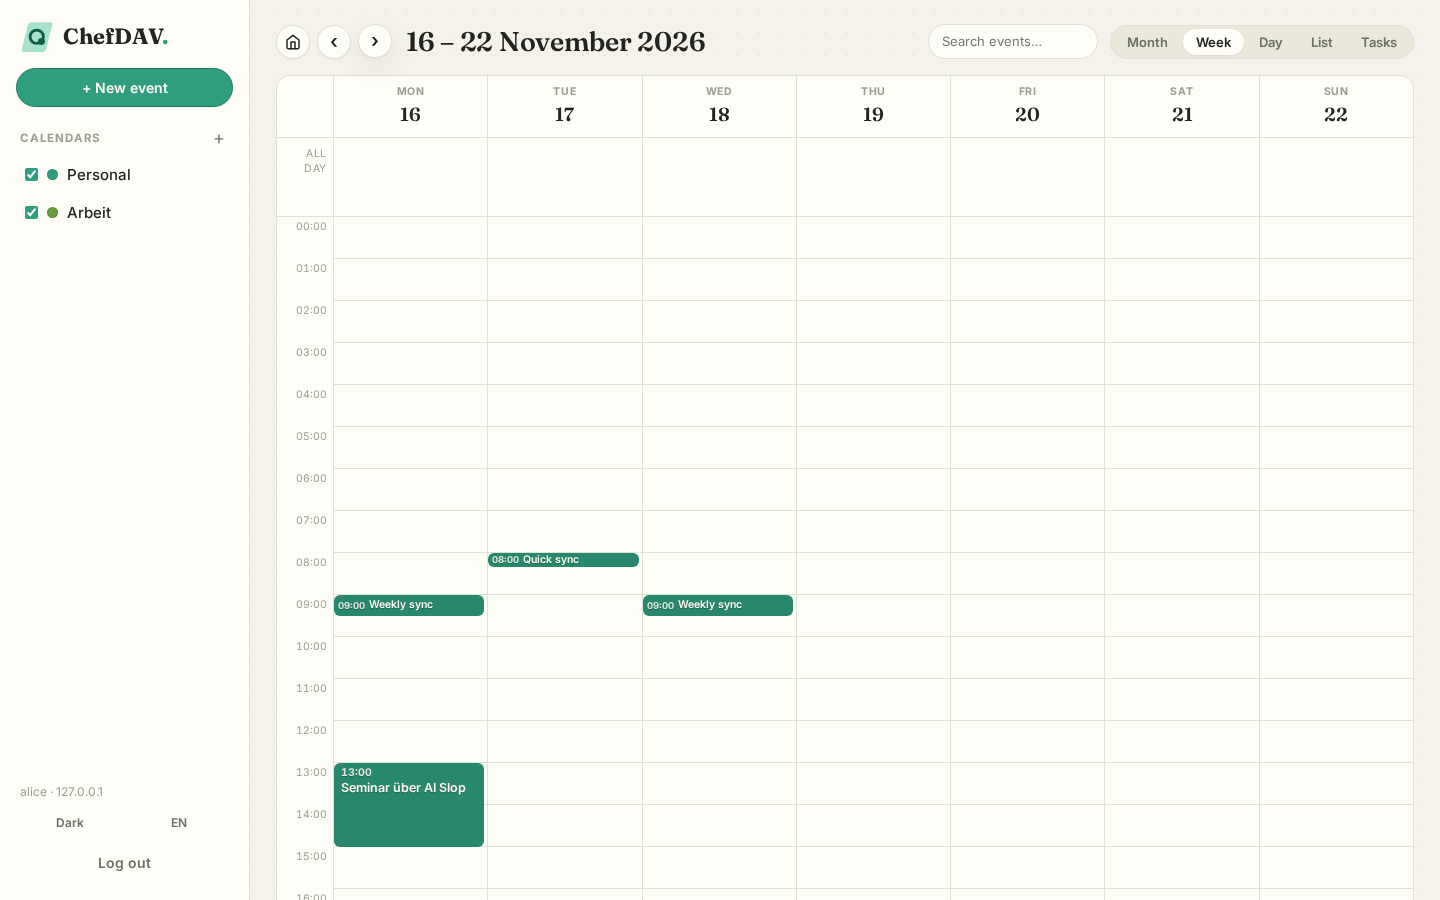
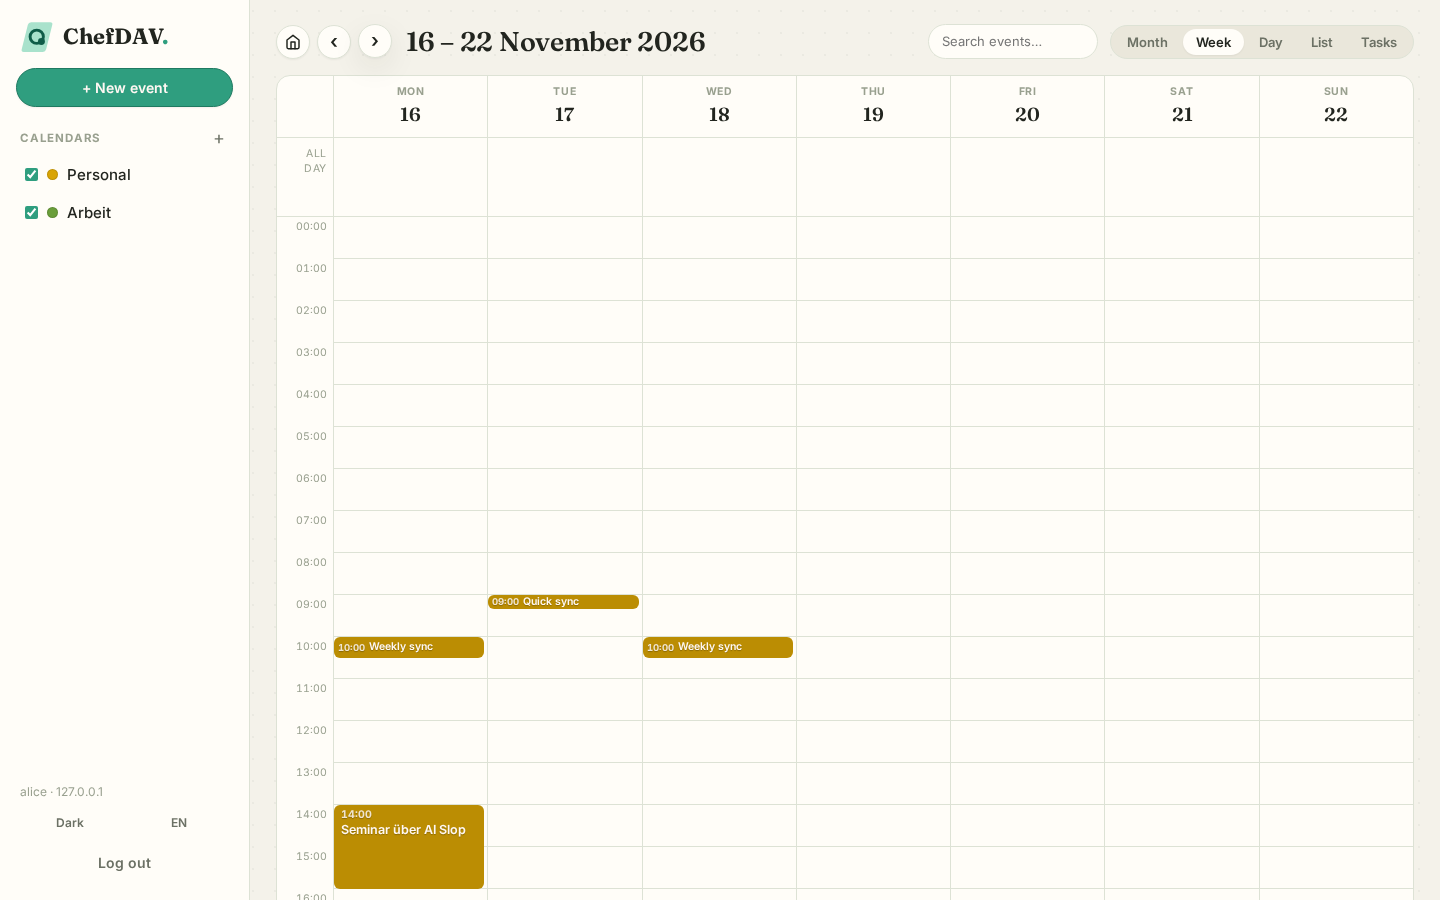
e2e: pin the browser clock; fix UTC-rendering bug the battery exposed
The suites were date-locked to the week of 2026-11-09: nav checks
('Next' -> /week/2026-11-16, 'Today' -> /week/2026-11-09) and
created-on-fixed-November-date chips broke once the real date moved on.

Fix: every suite now launches through e2e/clock.mjs
(launchPinned()/pinClock()), which pins the browser clock to
Mon 2026-11-09 12:00 local via page.clock.setFixedTime. The app reads
the clock only via js_sys::Date::now, timers keep running in real
time, and the pin survives reloads (checked by clock-sanity.mjs).
Hardcoded dates and nav expectations now hold forever.

Re-running the full battery exposed a real app bug: browser_tz()
fetched Intl.DateTimeFormat.resolvedOptions as a property instead of
calling it, so the timeZone lookup silently failed and the app always
rendered in UTC -- TZID events from other clients showed 1-2h early
(12:00 Europe/Berlin displayed as 11:00). Editor-created events were
self-consistent, which hid it. Fix: call dtf.resolved_options().
Regression check in features.mjs ('events render in the browser
timezone', tz-agnostic so it holds on UTC CI too); screenshots
retaken with the now-correct local times.

Battery green: smoke, features, recurrence, visibility, session,
location, links, multiday, audit.

Changed region(s): [[0.2188, 0.5911, 0.5625, 0.7467], [0.2188, 0.84, 0.3438, 0.9956]]

diff --git a/src/browser.rs b/src/browser.rs
@@ -38,9 +38,14 @@ pub fn browser_tz() -> Tz {
     let locales = js_sys::Array::new();
     let options = js_sys::Object::new();
     let dtf = js_sys::Intl::DateTimeFormat::new(&locales, &options);
-    let tz_name = js_sys::Reflect::get(&dtf, &JsValue::from_str("resolvedOptions"))
+    // resolvedOptions is a METHOD: Reflect::get(&dtf, "resolvedOptions") only
+    // fetched the function object and the "timeZone" lookup on it silently
+    // failed, so every build fell back to UTC and TZID events rendered at
+    // their UTC times (12:00 Europe/Berlin showed as 11:00). Found by the
+    // pinned-clock e2e battery on 2026-11-17.
+    let opts = dtf.resolved_options();
+    let tz_name = js_sys::Reflect::get(&opts, &JsValue::from_str("timeZone"))
         .ok()
-        .and_then(|opts| js_sys::Reflect::get(&opts, &JsValue::from_str("timeZone")).ok())
         .and_then(|v| v.as_string())
         .unwrap_or_else(|| "UTC".to_string());
     tz_name.parse().unwrap_or(chrono_tz::UTC)

diff --git a/e2e/README.md b/e2e/README.md
@@ -16,6 +16,21 @@ Playwright suites that drive the real app against the real dev stack:
 - `audit.mjs` — screenshots plus layout/translation checks (expects the seeded
   dev data).
 
+## Pinned clock
+
+The suites and the seeded demo data are pinned to November 2026, and the
+nav-based checks assume "today" is in the week of Mon 2026-11-09 – Sun
+2026-11-15 (toolbar "Next" must land on `/week/2026-11-16`, "Today" on
+`/week/2026-11-09`, created events must show up in the current month view).
+To keep that valid forever, every suite pins the browser clock to a fixed
+"now" inside that week via `clock.mjs` (`page.clock.setFixedTime` — the app
+reads the clock only through the JS `Date` object, and timers keep running in
+real time). Use `launchPinned()` (or `pinClock(page)` for your own context)
+in new suites instead of `chromium.launch()`, and create test data on fixed
+November 2026 dates like the existing ones. `node clock-sanity.mjs` is a
+5-second standalone check that the pin is seen by the app and survives a
+reload.
+
 ## Run
 
 ```sh
@@ -42,6 +57,8 @@ node recurrence.mjs
 node visibility.mjs
 node session.mjs
 node location.mjs
+node links.mjs
+node multiday.mjs
 node audit.mjs
 ```
 

diff --git a/CHANGELOG.md b/CHANGELOG.md
@@ -5,6 +5,11 @@ latest section of this file (baked into each build).
 
 ## Unreleased
 
+- Fixed **events created by other clients showing at the wrong local time**:
+  the app silently fell back to UTC instead of using the browser's timezone
+  (a broken `Intl` lookup), so events with a `TZID` — e.g. from AgenDAV,
+  Thunderbird or the demo seed — rendered one hour early in winter (two in
+  summer). Events now show in your actual timezone.
 - The week/day overflow entry is now a **"+N more"** button (N = hidden event
   count) that spans exactly the **time range of the hidden events** (earliest
   start → latest end) instead of the full column height, and only appears when

diff --git a/README.md b/README.md
@@ -36,6 +36,8 @@ modern look, Rust reliability.
 - **Multi-day events** — the editor has an end-date picker for all-day *and*
   overnight timed events; month and week views render them as spanning bars
   with striped continuation fades at week boundaries and day edges.
+- **Timezone-aware** — events render in your browser's timezone, whether they
+  carry a `TZID` from another client or were saved as UTC (DST-correct).
 - **Recurrence** — RRULE/RDATE/EXDATE expanded client-side in the event's own
   timezone (DST-correct), an RRULE editor, and RECURRENCE-ID exceptions
   (*this event* / *this and following* / *all events*).
